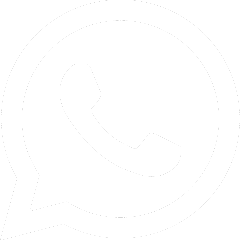
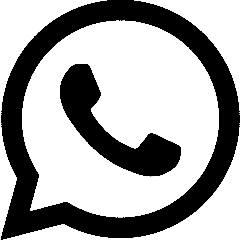
mudança no footer

diff --git a/estilo.css b/estilo.css
@@ -77,14 +77,14 @@ input:focus {
 .icones-sociais img{
   width: 30px;
   height: 30px;
-  display: flex;
-  flex-direction: column;
-  gap: 2px;
 }
 .icones-sociais{
   display: flex;
-  flex-direction: column;
   gap: 8px;
+}
+
+h3{
+  font-size: 8px;
 }
 
 footer 
@@ -96,8 +96,7 @@ footer
   padding-left: 12px;
 
   font-size: 16px;
-  color: white;
-  background-color: black;
+  color: rgb(0, 0, 0);
 }
 
 h5 
@@ -122,10 +121,6 @@ h5
   text-align: center;
   height: 568px;
 }
-h4{
-  font-size: 15px;
-  margin: 4px;
-}
 
 @media (min-width: 1280px) {
   footer {
@@ -134,6 +129,9 @@ h4{
     padding: 50px;
   }
 
+  h3 {
+    font-size: 15px;
+  }
   .icones-sociais {
     display: flex;
     flex-direction: row;

diff --git a/index.html b/index.html
@@ -53,13 +53,9 @@
 
 <footer>
   <div>
-    <h3>
-      Horario de Funcionamento
-    </h3>
-    
-    <h4>
-      Seg á sexta- 10:00 as 21:00  Sabado- 9:00 as 21:00
-    </h4>
+    <h3>Telefone: +55 21 98765-4321</h3>
+    <h3>E-mail:info@barbeariasantista.com</h3>
+    <h3>Endereço: Rua da praia, 123 Rio de Janeiro, Brasil</h3>
   </div>
 
   <div class="icones-sociais">
